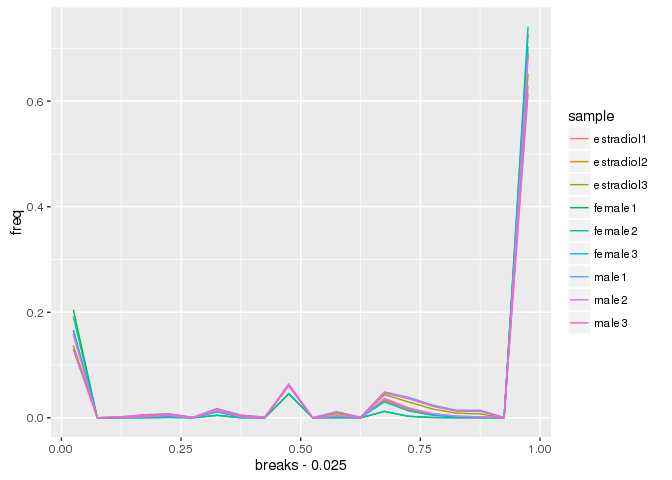
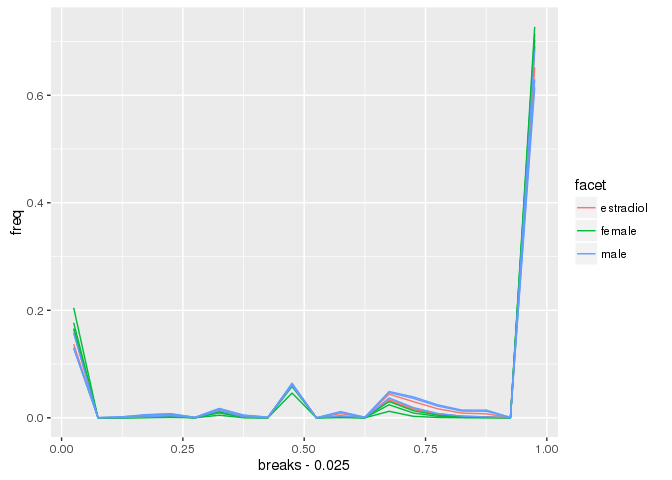
updated with newest "female2" file

diff --git a/Data_Analysis/1-Methylation_sanity_check.md b/Data_Analysis/1-Methylation_sanity_check.md
@@ -12,7 +12,6 @@ require(data.table)
 require(foreach)
 require(doMC)
 require(knitr)
-# opts_knit$set(root.dir = '../..')
 require(dplyr)
 require(ggplot2)
 require(pheatmap)
@@ -22,19 +21,20 @@ require(pheatmap)
 
 
 ```r
-cpg_file_names <- dir("../methylation_data/", "*.CG.bed", full.names = T)
+cpg_file_names <- dir("../methylation_data/", "^SRR.*.CG.bed", full.names = T)
+
+file_table <- read.delim("../methylation_data/sample_table.txt", header = FALSE) %>% arrange(V1)
 
 registerDoMC(9)
-cpg_files <- foreach(x=cpg_file_names, .combine = c) %dopar% {
-  tmp <- fread(input = x) %>% 
+cpg_files <- foreach(i=seq_along(cpg_file_names), .combine = c) %dopar% {
+  tmp <- fread(input = cpg_file_names[i]) %>% 
     setnames(c("chr","pos","end","converted_C","cov")) %>% 
     filter(chr != "chrMT") %>%
     mutate(meth = (converted_C/cov) %>% round(3)) %>%
-    select(-end, -converted_C)
+    select(chr, pos, meth, cov)
+  # save(tmp, file = paste0("../methylation_data/",file_table$V2[i],".RData"), compress = TRUE)
   list(tmp)
 }
-
-file_table <- read.delim("../methylation_data/sample_table.txt", header = FALSE) %>% arrange(V1)
 
 names(cpg_files) <- file_table$V2
 ```
@@ -51,8 +51,6 @@ cpg_files_merged <- foreach(i=1:length(cpg_files), .combine = cbind) %dopar% {
 }
 
 cpg_files_merged <- cbind(all_cpgs, cpg_files_merged)
-
-# save("cpg_files_merged", file = "methylation_data/methylation_data.RData", compress = TRUE)
 ```
 
 ## Analysis begins
@@ -63,7 +61,7 @@ cpg_files_merged <- cbind(all_cpgs, cpg_files_merged)
 
 
 ```r
-lapply(cpg_files, nrow) %>% data.frame() %>% t() %>% data.frame() %>% add_rownames()
+lapply(cpg_files, nrow) %>% data.frame() %>% t() %>% data.frame() %>% add_rownames() %>% arrange(rowname)
 ```
 
 ```
@@ -71,12 +69,12 @@ lapply(cpg_files, nrow) %>% data.frame() %>% t() %>% data.frame() %>% add_rownam
 ## 
 ##      rowname        .
 ##        (chr)    (int)
-## 1    female1  8922668
-## 2    female2  8702855
-## 3    female3 13632672
-## 4 estradiol1 13811801
-## 5 estradiol2 14178594
-## 6 estradiol3 16619149
+## 1 estradiol1 13811801
+## 2 estradiol2 14178594
+## 3 estradiol3 16619149
+## 4    female1  8922668
+## 5    female2 12345885
+## 6    female3 13632672
 ## 7      male1 18058509
 ## 8      male2 15173572
 ## 9      male3 17688957
@@ -109,17 +107,17 @@ Well that sucks. Looks like the female libraries have less reads overall. Luckil
 ```r
 foreach(i=1:length(cpg_files), .combine = rbind) %dopar%{
   cpg_files[[i]] %>% summarize(average_Cov = sum(cov)/n()) %>% mutate(sample = names(cpg_files)[i])
-}
+} %>% arrange(sample)
 ```
 
 ```
 ##    average_Cov     sample
-## 1:    1.409210    female1
-## 2:    1.414381    female2
-## 3:    1.901558    female3
-## 4:    2.013134 estradiol1
-## 5:    2.103462 estradiol2
-## 6:    2.696568 estradiol3
+## 1:    2.013134 estradiol1
+## 2:    2.103462 estradiol2
+## 3:    2.696568 estradiol3
+## 4:    1.409210    female1
+## 5:    1.720337    female2
+## 6:    1.901558    female3
 ## 7:    3.191067      male1
 ## 8:    2.138167      male2
 ## 9:    3.048415      male3
@@ -141,12 +139,33 @@ cov_distribution %>%
 ```
 
 ```
-## Warning: Removed 226 rows containing missing values (geom_path).
+## Warning: Removed 240 rows containing missing values (geom_path).
 ```
 
 ![](1-Methylation_sanity_check_files/figure-html/cov_distribution-1.png)
 
-Distribution of coverage looks poisson at least despite low coverage.
+Distribution of coverage looks poisson at least...
+
+Actually, the male samples seem screwed up somehow?
+
+
+```r
+cov_distribution %>%
+  mutate(facet = gsub("[1-3]", "", sample)) %>%
+  filter(facet == "male") %>%
+  ggplot(aes(cov, n, group = sample, color = sample))+
+  facet_wrap(~sample) +
+  geom_line() +
+  xlim(0,50)
+```
+
+```
+## Warning: Removed 108 rows containing missing values (geom_path).
+```
+
+![](1-Methylation_sanity_check_files/figure-html/cov_distribution_male-1.png)
+
+Hmm... not sure what this means... hope it wont affect results.
 
 ### Average methylation per sample
 
@@ -154,23 +173,23 @@ Distribution of coverage looks poisson at least despite low coverage.
 ```r
 foreach(i=1:length(cpg_files), .combine = rbind) %dopar%{
   cpg_files[[i]] %>% summarize(mean_meth = mean(meth) %>% round(3)) %>% mutate(sample = names(cpg_files)[i])
-}
+} %>% arrange(sample)
 ```
 
 ```
 ##    mean_meth     sample
-## 1:     0.763    female1
-## 2:     0.777    female2
-## 3:     0.776    female3
-## 4:     0.772 estradiol1
-## 5:     0.776 estradiol2
-## 6:     0.777 estradiol3
+## 1:     0.772 estradiol1
+## 2:     0.776 estradiol2
+## 3:     0.777 estradiol3
+## 4:     0.763    female1
+## 5:     0.774    female2
+## 6:     0.776    female3
 ## 7:     0.771      male1
 ## 8:     0.774      male2
 ## 9:     0.775      male3
 ```
 
-Looks like methylation is generally very similar across samples
+Looks like methylation is generally very similar across samples (xxcept female 1, what's up with that?)
 
 ### Distribution of DNA methylation per sample
 
@@ -188,7 +207,8 @@ dist_DNA_meth %>%
   group_by(sample) %>%
   mutate(total = sum(counts),
          freq = counts/total) %>%
-  ggplot(aes(x = breaks-0.025, y = freq, color = sample)) +
+  mutate(facet = gsub("[1-3]", "", sample)) %>%
+  ggplot(aes(x = breaks-0.025, y = freq, group = sample, color = facet)) +
   geom_line()
 ```
 
@@ -216,4 +236,6 @@ pheatmap(pairwise_cor, cluster_rows = hclust, cluster_cols = hclust)
 Holy crap, the correlation values are atrocious. We might need to increase coverage by pooling replicates.
 
 At least male and estradiol are clustering together.
+
+
 
